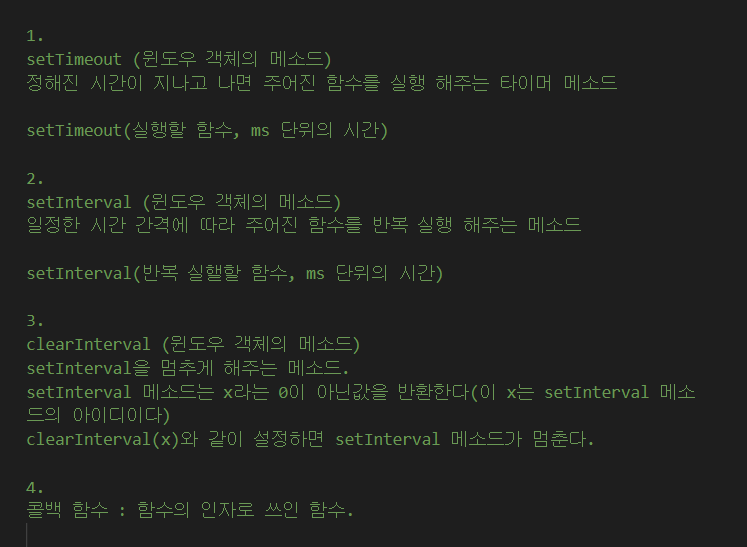
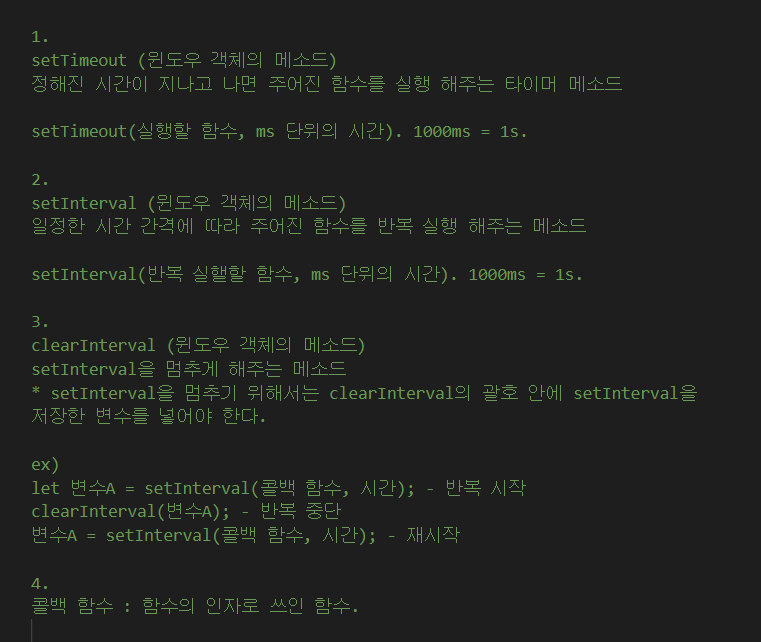
study

diff --git a/03 JavaScript/21 시간 관련 메소드/00 시간 관련 메소드.js b/03 JavaScript/21 시간 관련 메소드/00 시간 관련 메소드.js
@@ -25,23 +25,27 @@ button.addEventListener('click', function(){
 setTimeout (윈도우 객체의 메소드)
 정해진 시간이 지나고 나면 주어진 함수를 실행 해주는 타이머 메소드
 
-setTimeout(실행할 함수, ms 단위의 시간) 
+setTimeout(실행할 함수, ms 단위의 시간). 1000ms = 1s.
 
 2.
 setInterval (윈도우 객체의 메소드)
 일정한 시간 간격에 따라 주어진 함수를 반복 실행 해주는 메소드
 
-setInterval(반복 실핼할 함수, ms 단위의 시간)
+setInterval(반복 실핼할 함수, ms 단위의 시간). 1000ms = 1s.
 
 3.
 clearInterval (윈도우 객체의 메소드)
-setInterval을 멈추게 해주는 메소드.
-setInterval 메소드는 x라는 0이 아닌값을 반환한다(이 x는 setInterval 메소
-드의 아이디이다)
-clearInterval(x)와 같이 설정하면 setInterval 메소드가 멈춘다.
+setInterval을 멈추게 해주는 메소드
+* setInterval을 멈추기 위해서는 clearInterval의 괄호 안에 setInterval을 저장한 변수를 넣어야 한다.
+
+ex)
+let 변수A = setInterval(콜백 함수, 시간); - 반복 시작
+clearInterval(변수A); - 반복 중단
+변수A = setInterval(콜백 함수, 시간); - 재시작
 
 4.
 콜백 함수 : 함수의 인자로 쓰인 함수.
 
  */
+
 
